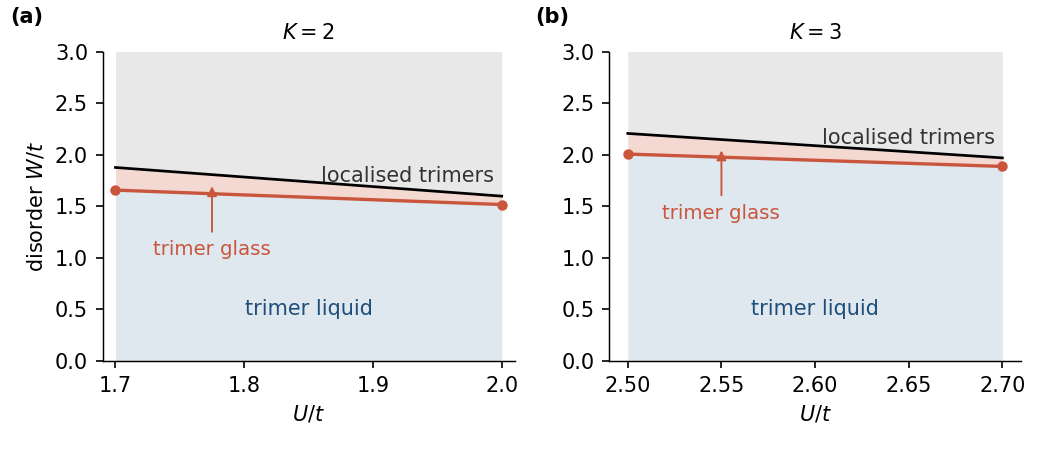
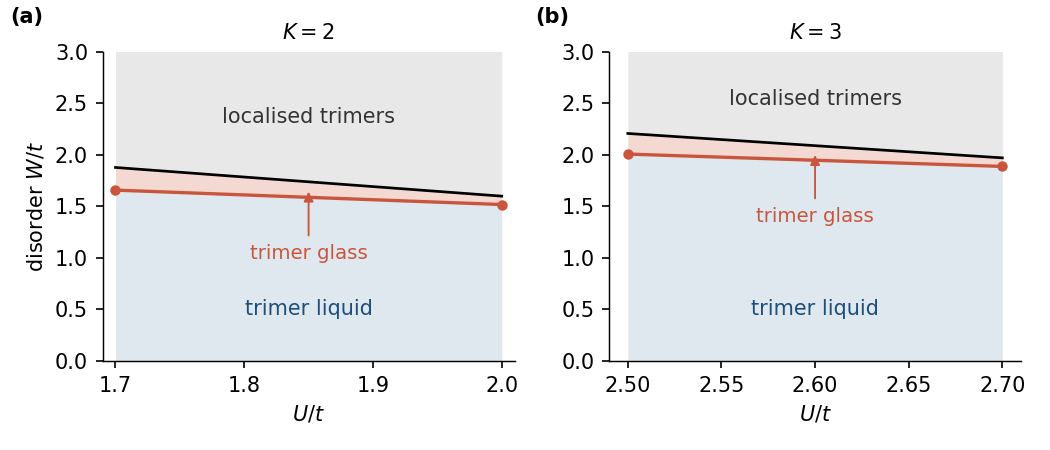
paper: fig. 7 labels centred

diff --git a/paper/fig5.py b/paper/fig5.py
@@ -23,7 +23,7 @@ for ax, K in zip(axes, (2, 3)):
     um = 0.5 * (U.min() + U.max()); ul = U.min() + 0.25 * (U.max() - U.min()); ur = U.max() - 0.06 * (U.max() - U.min())
     ax.set_ylim(0, 3.0)
     ax.text(um, 0.5, "trimer liquid", fontsize=10, color=B, ha="center", va="center")
-    ax.annotate("trimer glass", xy=(ul, 0.5 * (np.interp(ul, U, Wg) + np.interp(ul, U, Wc))), xytext=(ul, np.interp(ul, U, Wg) - 0.45), fontsize=9.5, color=R, ha="center", va="top", arrowprops=dict(arrowstyle="-|>", color=R, lw=0.9, shrinkB=1))
-    ax.text(U.max() - 0.02 * (U.max() - U.min()), Wc[-1] + 0.1, "localised trimers", fontsize=10, color="#333333", ha="right", va="bottom")
+    ax.annotate("trimer glass", xy=(um, 0.5 * (np.interp(um, U, Wg) + np.interp(um, U, Wc))), xytext=(um, np.interp(um, U, Wg) - 0.45), fontsize=9.5, color=R, ha="center", va="top", arrowprops=dict(arrowstyle="-|>", color=R, lw=0.9, shrinkB=1))
+    ax.text(um, 0.5 * (np.interp(um, U, Wc) + 3.0), "localised trimers", fontsize=10, color="#333333", ha="center", va="center")
 axes[0].set_ylabel("disorder $W/t$")
 fig.tight_layout(w_pad=2.0); fig.text(0.01, 0.95, "(a)", fontsize=10, fontweight="bold"); fig.text(0.51, 0.95, "(b)", fontsize=10, fontweight="bold"); fig.savefig("fig5.pdf"); fig.savefig("fig5.png", dpi=150)
